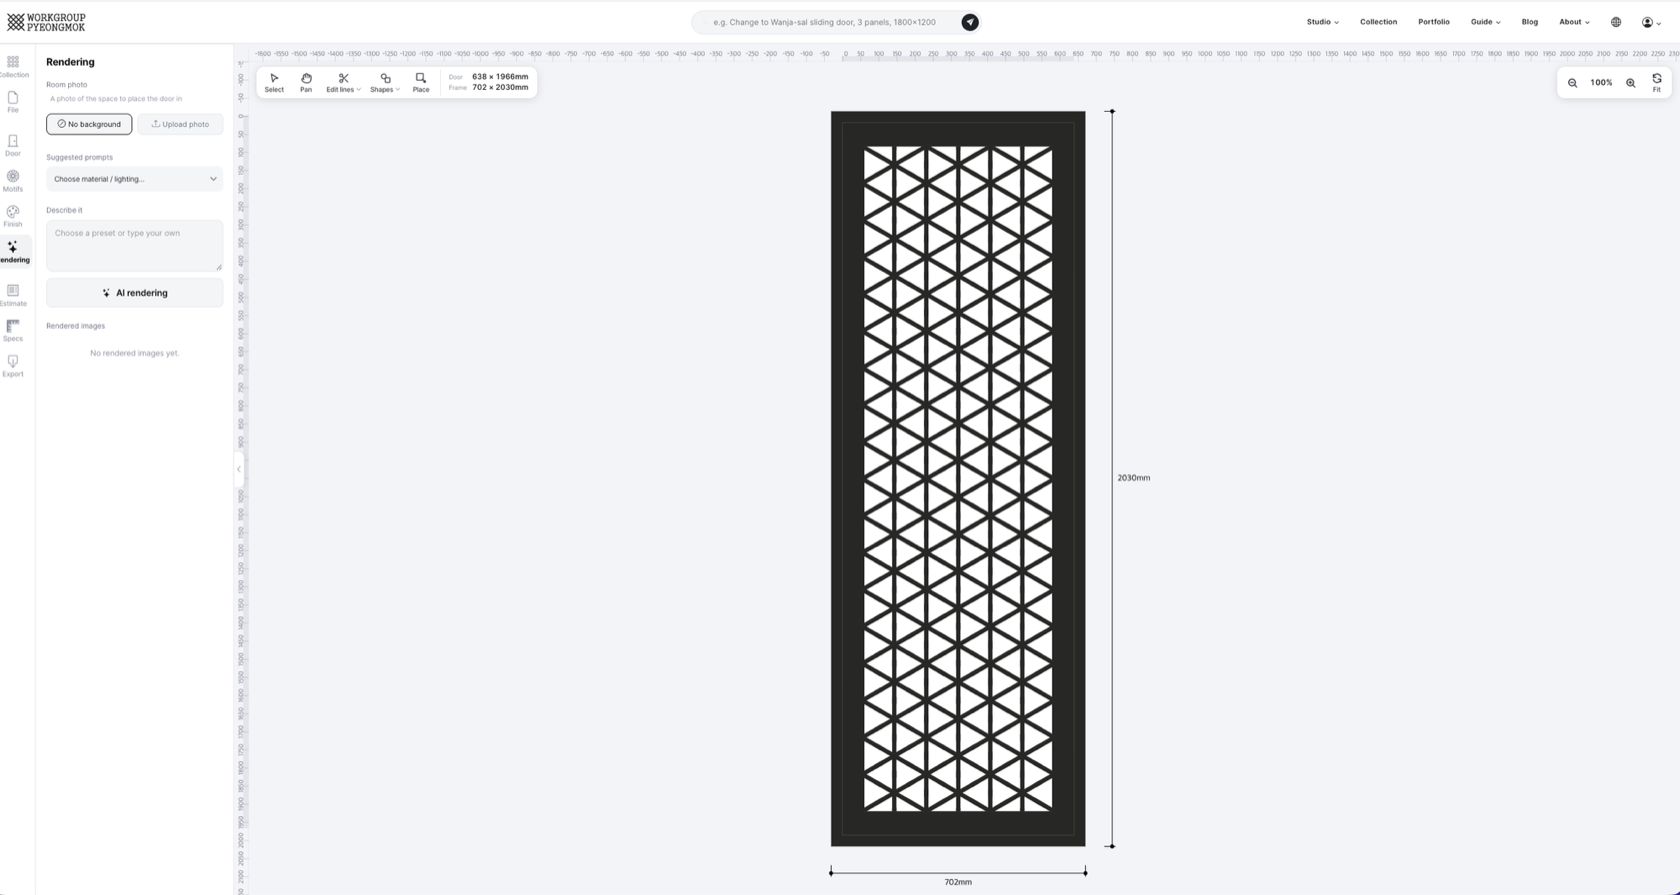
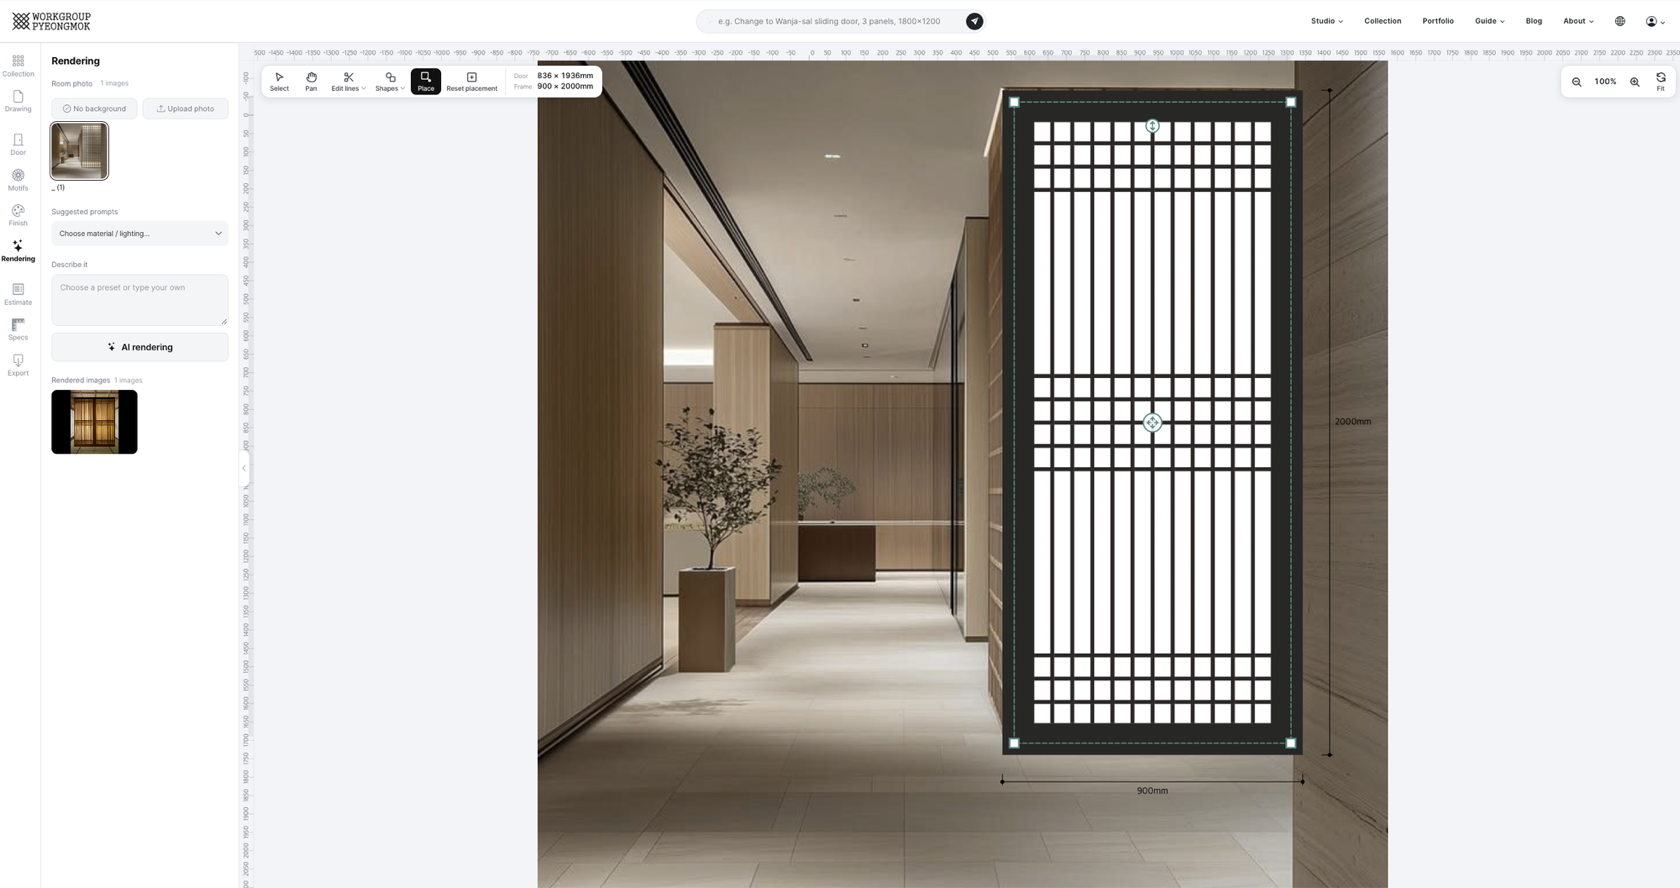
렌더링 가이드 이미지 한·영을 공간 사진+배치+렌더링 결과가 보이는 세살 화면으로 교체, 이미지 설명 수정

diff --git a/src/guide/render.php b/src/guide/render.php
@@ -45,7 +45,7 @@ include __DIR__ . '/_head.php';
 
 <!-- UI 스크린샷 -->
 <div class="guide-screenshot">
-    <img src="/src/img/guide/render.png" alt="세살 스튜디오에서 렌더링 탭을 연 화면 — 패널의 공간 사진(배경 없음·사진 올리기)·추천 프롬프트·직접 입력·AI 렌더링 버튼·렌더링 결과 썸네일, 캔버스에는 도면" loading="lazy">
+    <img src="/src/img/guide/render.png" alt="세살 스튜디오에서 렌더링 탭을 연 화면 — 패널의 공간 사진·추천 프롬프트·직접 입력·AI 렌더링 버튼·렌더링 결과, 캔버스에는 공간 사진 위에 배치 모드로 문틀 자리에 맞춰 넣은 도면" loading="lazy">
 </div>
 
 <div class="guide-callout-grid">

diff --git a/src/guide/en/render.php b/src/guide/en/render.php
@@ -46,7 +46,7 @@ include __DIR__ . '/../_head.php';
 
 <!-- UI 스크린샷 -->
 <div class="guide-screenshot">
-    <img src="/src/img/guide/render-en.png" alt="Rendering tab open in the Semo-sotgeul-sal studio — Room photo, Suggested prompts, Describe it, the AI rendering button and Rendered images in the panel, with the drawing on the canvas" loading="lazy">
+    <img src="/src/img/guide/render-en.png" alt="Rendering tab open in the Se-sal studio — Room photo, Suggested prompts, Describe it, the AI rendering button and Rendered images in the panel, with the drawing fitted into the room photo in Place mode on the canvas" loading="lazy">
 </div>
 
 <div class="guide-callout-grid">
